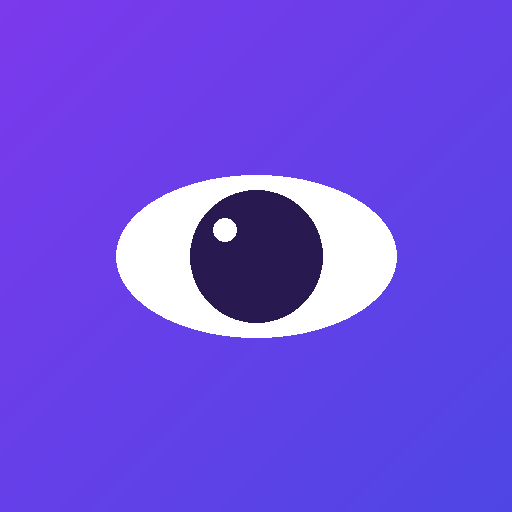
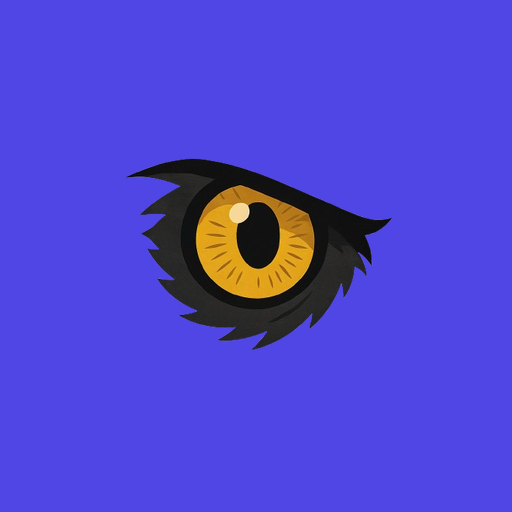
fix(v92): icones regenerados com fundo azul #4f46e5 — cor estava baked na imagem PNG

diff --git a/index.html b/index.html
@@ -10,7 +10,7 @@
 <!-- Force-update: unregister → re-register → SW ready → reload -->
 <script>
   (function() {
-    var V = '91';
+    var V = '92';
     if (localStorage.getItem('_visao_build') !== V) {
       localStorage.setItem('_visao_build', V);
       if ('caches' in window) {
@@ -43,7 +43,7 @@
 <meta name="apple-mobile-web-app-status-bar-style" content="black-translucent">
 <meta name="apple-mobile-web-app-title" content="Falcon">
 <meta name="mobile-web-app-capable" content="yes">
-<link rel="stylesheet" href="css/styles.css?v=20260708f">
+<link rel="stylesheet" href="css/styles.css?v=20260708g">
 <style>.onboarding-logo,.ajustes-avatar{background:#4f46e5!important}</style>
 <script>
   // Aplica tema ANTES de qualquer render — evita flash de tema errado
@@ -65,7 +65,7 @@
       <div>Carregando Falcon...</div>
     </div>
   </div>
-  <script type="module" src="js/main.js?v=20260708f"></script>
+  <script type="module" src="js/main.js?v=20260708g"></script>
 
   <!-- Registro do Service Worker (PWA) -->
   <script>

diff --git a/sw.js b/sw.js
@@ -6,7 +6,7 @@
 //   - Firebase/CDN → sempre rede (não cacheia)
 // ═══════════════════════════════════════════════════════════════
 
-const CACHE_NAME = 'visao-v91';
+const CACHE_NAME = 'visao-v92';
 const CORE_ASSETS = [
   './',
   './index.html',
